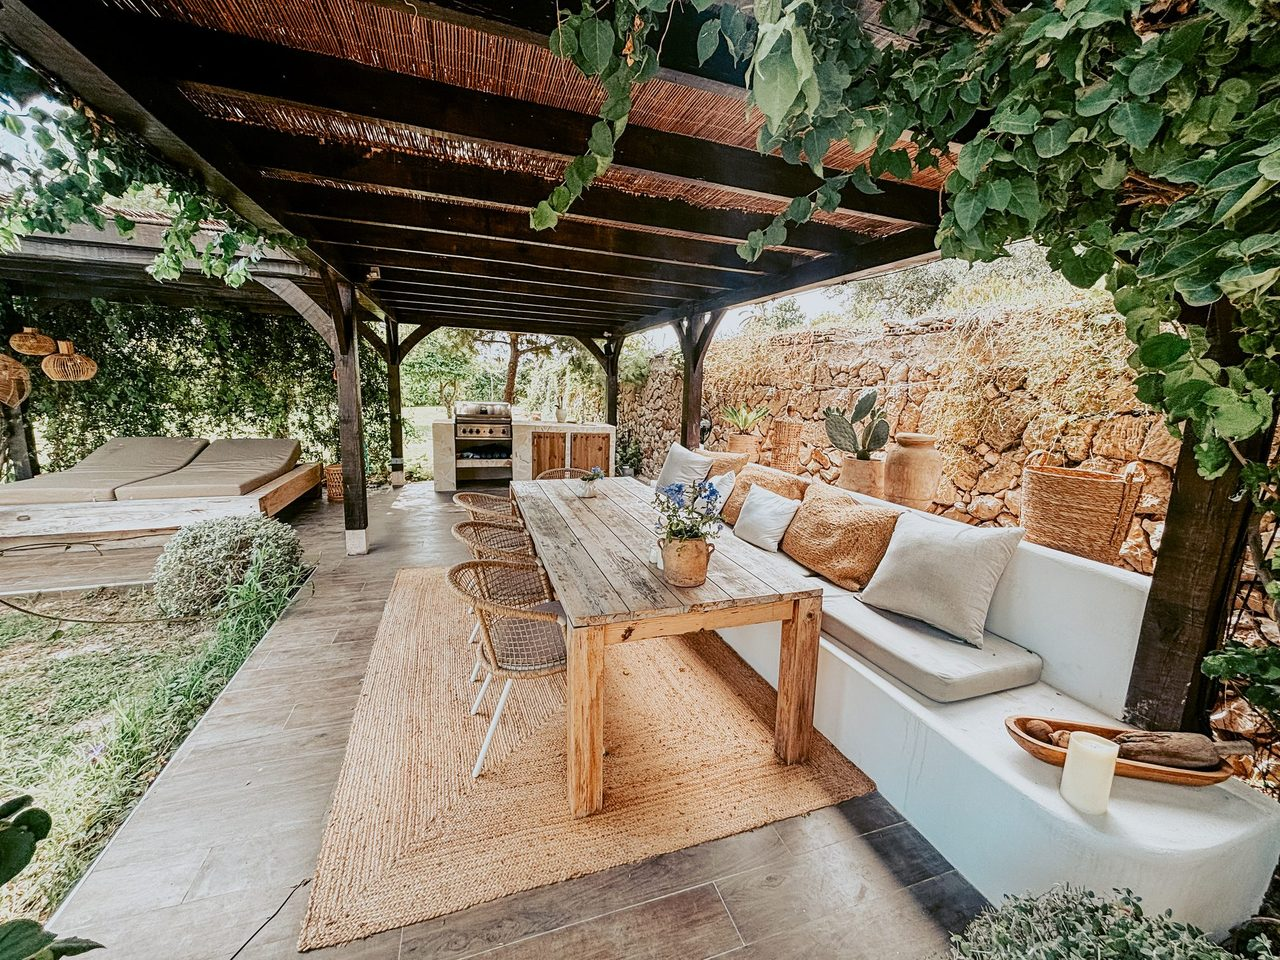
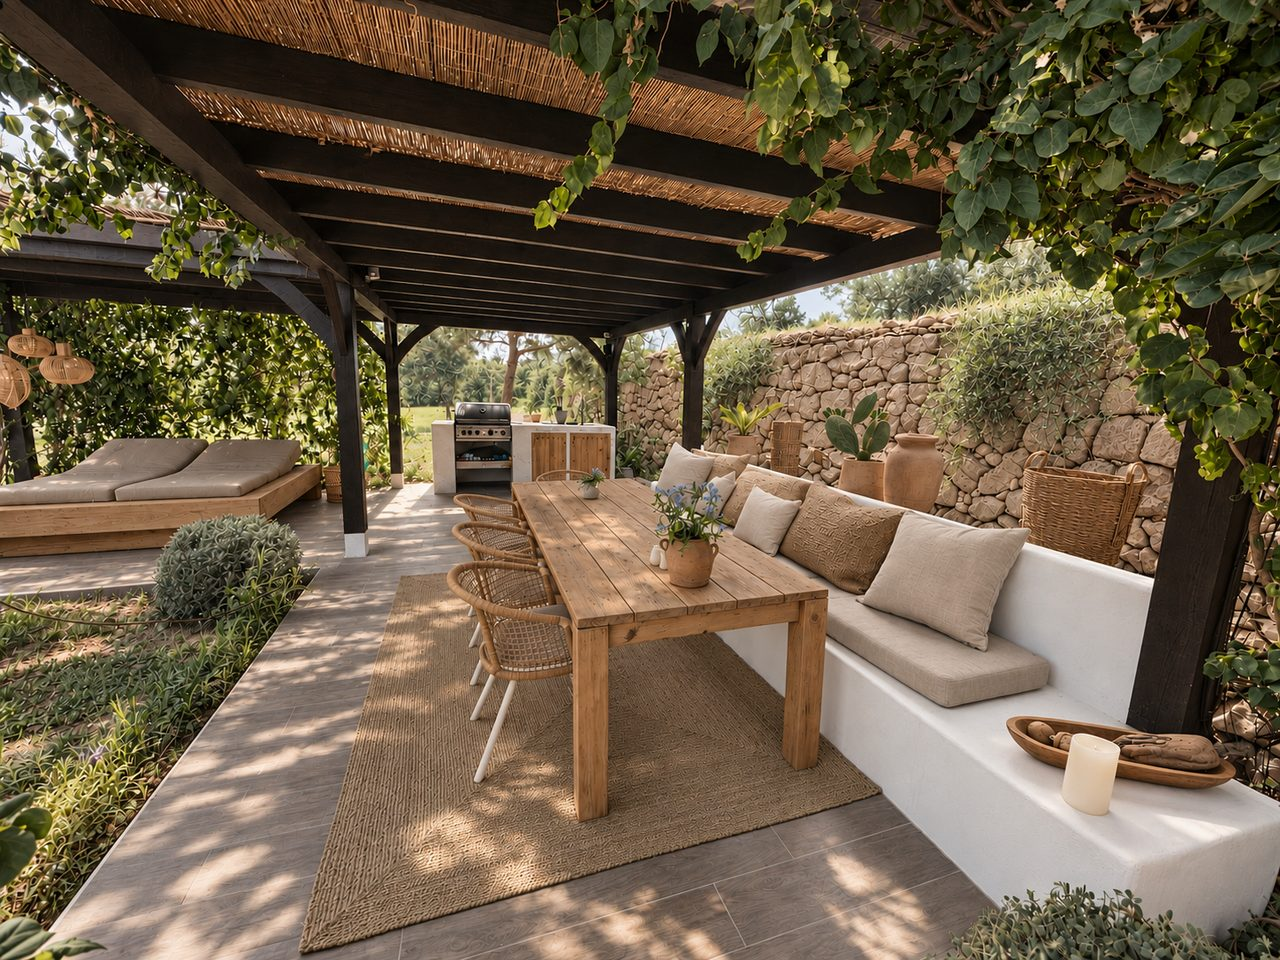
Badkamer en pergola vervangen door bewerkte versies
Git bevestigde de twee nieuwe bestanden; de structuurvergelijking
koppelde ze aan hun voorganger en beide paren zijn met het oog
gecontroleerd.

- 5-photo-2025-05-22-09-42-58-8-2  badkamer; in de nieuwe versie is
  ook het witte apparaat in de hoek weggewerkt
- img-4567                         pergola, iets strakkere uitsnede

Zelfde plek, zelfde alt-tekst, varianten opnieuw gegenereerd.
De pergola gaat van een 2000px- naar een 1448px-variant; op volle
breedte op een retina-scherm is dat merkbaar zachter dan voorheen.

Doorgetest op geëmuleerde iPhone en MacBook: geen regressies.

Claude-Session: https://claude.ai/code/session_013UnB3bHaxkZnj5vBS3fQba

diff --git a/index.html b/index.html
@@ -1556,7 +1556,7 @@
       <div class="g span-6 reveal-l"><img srcset="images/veranda-1-640.jpg 640w, images/veranda-1-1024.jpg 1024w, images/veranda-1-1280.jpg 1280w, images/veranda-1-1448.jpg 1448w" sizes="(max-width: 560px) 100vw, (max-width: 900px) calc(50vw - 36px), (max-width: 1180px) calc(50vw - 36px), 552px" src="images/veranda-1-1448.jpg" alt="Lange eettafel onder de veranda met rieten hanglampen" loading="lazy" decoding="async"></div>
 
       <!-- Buitenleven -->
-      <div class="g span-12 reveal-l"><img srcset="images/img-4567-640.jpg 640w, images/img-4567-1024.jpg 1024w, images/img-4567-1280.jpg 1280w, images/img-4567-1600.jpg 1600w, images/img-4567-2000.jpg 2000w" sizes="(max-width: 560px) 100vw, (max-width: 1180px) calc(100vw - 56px), 1120px" src="images/img-4567-2000.jpg" alt="Pergola met lange tafel, gemetselde bank en ligbed" loading="lazy" decoding="async"></div>
+      <div class="g span-12 reveal-l"><img srcset="images/img-4567-640.jpg 640w, images/img-4567-1024.jpg 1024w, images/img-4567-1280.jpg 1280w, images/img-4567-1448.jpg 1448w" sizes="(max-width: 560px) 100vw, (max-width: 1180px) calc(100vw - 56px), 1120px" src="images/img-4567-1448.jpg" alt="Pergola met lange tafel, gemetselde bank en ligbed" loading="lazy" decoding="async"></div>
       <div class="g span-4 is-portrait reveal-l"><img srcset="images/dubbel-bed-640.jpg 640w, images/dubbel-bed-1024.jpg 1024w, images/dubbel-bed-1122.jpg 1122w" sizes="(max-width: 560px) 100vw, (max-width: 1180px) calc(100vw - 56px), 1120px" src="images/dubbel-bed-1122.jpg" alt="Dubbel ligbed onder de pergola met zicht op de tuin" loading="lazy" decoding="async"></div>
       <div class="g span-4 is-portrait reveal-l"><img srcset="images/bbq-links-640.jpg 640w, images/bbq-links-1024.jpg 1024w, images/bbq-links-1086.jpg 1086w" sizes="(max-width: 560px) 100vw, (max-width: 900px) calc(33vw - 32px), (max-width: 1180px) calc(33vw - 32px), 363px" src="images/bbq-links-1086.jpg" alt="Buitenkeuken met gasbarbecue" loading="lazy" decoding="async"></div>
       <div class="g span-4 is-portrait reveal-l"><img srcset="images/buitenkeuken-rechts-640.jpg 640w, images/buitenkeuken-rechts-1024.jpg 1024w, images/buitenkeuken-rechts-1086.jpg 1086w" sizes="(max-width: 560px) 100vw, (max-width: 900px) calc(33vw - 32px), (max-width: 1180px) calc(33vw - 32px), 363px" src="images/buitenkeuken-rechts-1086.jpg" alt="Buitenkeuken met spoelbak en houten kasten" loading="lazy" decoding="async"></div>
